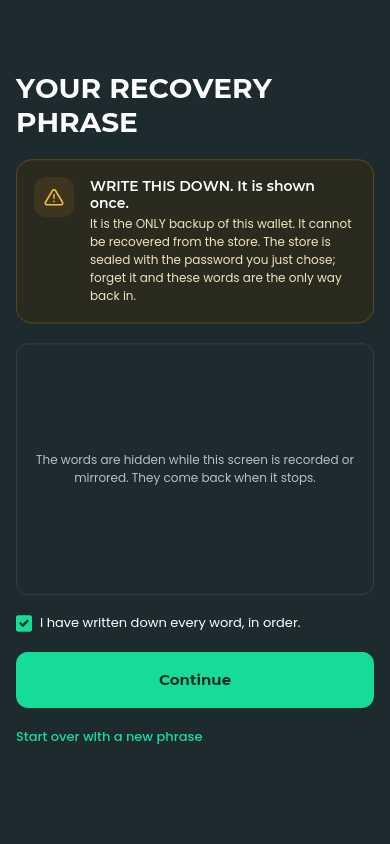
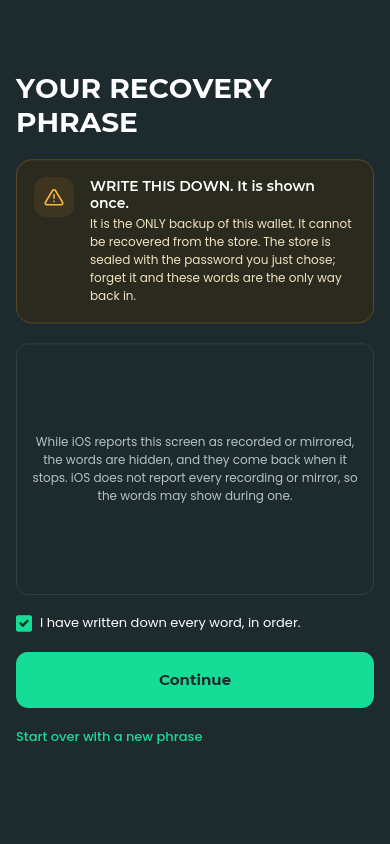
Hedge the hidden-words copy and fix stale line references in docs
The placeholder for the words while the screen is recorded or mirrored
now states its condition and says that iOS does not report every
recording or mirror, so it no longer promises the blanking (D44 item 3).
The doc comment, the S4 row of docs/SCREENS.md and its row of the
application texts say the same. The captured phone image is redrawn in
the pinned container (D32 item 10 (c)).

docs/THREAT_MODEL.md: T16, G27 and the iOS section now cite the lines that
hold the code at Tawara-mobile d8e60f6 (android.rs:38, ios.rs:333 and 338,
369, 403, 384, and the platform script checks at 711-715, 256-257 and
262-263), and PLAN.md:171-172 for the switcher bullet.

docs/DECISIONS.md D44: the warned page scrolls on a phone of 390 by 844 and
on one of 360 by 640. That is recorded as an exception to item 1 and to the
item 8 reference in the header, and the owner's choice among the three
options is still open. No code changes for the layout.

Changed region(s): [[0.0923, 0.4929, 0.9231, 0.6161]]

diff --git a/crates/app/src/screens/first_run.rs b/crates/app/src/screens/first_run.rs
@@ -660,11 +660,12 @@ const PHRASE_SHOT_TITLE: &str = "A screenshot was taken";
 const PHRASE_SHOT_BODY: &str = "Delete it. It holds the words.";
 
 /// What stands where the words are while the screen is recorded or mirrored
-/// (docs/DECISIONS.md D44 item 3). It says why, and promises nothing about the
-/// capture, since the blanking is best effort. The wording is new, and awaits
-/// the owner's approval (D44 item 5).
-const PHRASE_HIDDEN: &str = "The words are hidden while this screen is recorded or mirrored. \
-                             They come back when it stops.";
+/// (docs/DECISIONS.md D44 item 3). It says why, and that iOS does not report
+/// every recording or mirror, since the blanking is best effort. The wording is
+/// new, and awaits the owner's approval (D44 item 5).
+const PHRASE_HIDDEN: &str = "While iOS reports this screen as recorded or mirrored, the words are \
+                             hidden, and they come back when it stops. iOS does not report every \
+                             recording or mirror, so the words may show during one.";
 
 /// The height of the words' grid at its 14-pixel words: eight rows of cells,
 /// with [`PHRASE_GAP`] between the rows. The placeholder that replaces the grid

diff --git a/docs/THREAT_MODEL.md b/docs/THREAT_MODEL.md
@@ -138,7 +138,7 @@ with its source; what checks that protection; what is left; and the status.
 
 | # | threat | protections (sources) | checked by | residual | status |
 |---|---|---|---|---|---|
-| T16 | **The phrase seen or captured while shown** (A5): a person nearby, a screenshot, a recording, screen sharing, the app switcher. | Shown once, at creation, behind a confirmation of three words (PLAN 4.3; docs/SCREENS.md S4, S5); never shown again, and no control exists to show it (D27 item 3). Android: `FLAG_SECURE` on the whole app, set before the first frame (D32 item 4; `Tawara-mobile:crates/mobile/src/android.rs:27-29`). iOS: a cover with no wallet content on `WillResignActive`, over the key window, removed on `DidBecomeActive` (D32 item 6; `Tawara-mobile:crates/mobile/src/ios.rs:239-288`). With no key window no cover is added, and the log says so (`ios.rs:262-265`). | Tawara-mobile CI: `flag_secure` reads `SECURE` from `dumpsys` (`platform/android/tawara.sh:289-294`); `cover added` in the log (`platform/ios/tawara.sh:201-202`) and the key window in a scene (`:207-208`). Passed on 587329c. | The desktop has no protection: screenshots, recording and screen sharing see S4 (G2). No check shows that an Android screenshot, recording or recents thumbnail is blank, or that the iOS switcher's snapshot is (G7, G8). The `scene.window` check (`platform/ios/tawara.sh:208`) catches a missing key window on the simulator only; nothing checks it on a phone. On an iPhone, while the app is active, the app does not stop a screenshot, a screen recording or mirroring of S4 (G27): the cover comes off on `DidBecomeActive` (`Tawara-mobile:crates/mobile/src/ios.rs:208`, `:282-288`), the iced fork's iOS `set_content_protected` is empty (`fork:vendor/winit/src/platform_impl/ios/window.rs:459`), and no code pinned before D44 item 3 reads `UIScreen.isCaptured`. V6 checks the switcher's snapshot only. The control is D44 item 3, merged with PR #26, which is a recommendation: on 2026-10-13 the owner decided only D44's frame order (item 1). Its app side is built (`crates/app/src/host.rs`, `crates/app/src/screens/first_run.rs`): the words are blanked while the shell reports the screen captured, as far as iOS reports it, and a warning shows after a screenshot taken while the words are drawn, which cannot block it. Its images are `design/screenshots/phone-s4-phrase-photographed.png`, with its end, and `design/screenshots/phone-s4-phrase-captured.png`. The iOS calls that report both are the shell's, in Tawara-mobile, and the control is not active on a phone until that pull request lands. D44 item 3 also records developers' reports that the capture state can read inactive while a recording runs, so the blanking is best effort, and V18 is the test. On Android, D44 item 4 records that Android's guidance says `FLAG_SECURE` "does not correctly predict if screen recording is active", and that on Android 11 (API 30) and lower it helps around 70% of devices reliably, so no text may say it stops every recording. | Android and iOS: verified (flag set, cover added); effect on a device, owed. Desktop: owed. iOS while active: owed (G27, V18) |
+| T16 | **The phrase seen or captured while shown** (A5): a person nearby, a screenshot, a recording, screen sharing, the app switcher. | Shown once, at creation, behind a confirmation of three words (PLAN 4.3; docs/SCREENS.md S4, S5); never shown again, and no control exists to show it (D27 item 3). Android: `FLAG_SECURE` on the whole app, set before the first frame (D32 item 4; `Tawara-mobile:crates/mobile/src/android.rs:38`, in `main`). iOS: a cover with no wallet content on `WillResignActive`, over the key window, removed on `DidBecomeActive` (D32 item 6; `Tawara-mobile:crates/mobile/src/ios.rs`: `observe` registers them at `:333` and `:338`; `cover` is at `:369`, `uncover` at `:403`). With no key window no cover is added, and the log says so (`cover`, `ios.rs:384`). | Tawara-mobile CI: `flag_secure` reads `SECURE` from `dumpsys` (`platform/android/tawara.sh:711-715`); `background.covered` reads `cover added` in the log (`platform/ios/tawara.sh:256-257`), and `scene.window` reads the key window in a scene (`:262-263`). Passed on 587329c. | The desktop has no protection: screenshots, recording and screen sharing see S4 (G2). No check shows that an Android screenshot, recording or recents thumbnail is blank, or that the iOS switcher's snapshot is (G7, G8). The `scene.window` check (`platform/ios/tawara.sh:262-263`) catches a missing key window on the simulator only; nothing checks it on a phone. On an iPhone, while the app is active, the app does not stop a screenshot, a screen recording or mirroring of S4 (G27): the cover comes off on `DidBecomeActive` (`Tawara-mobile:crates/mobile/src/ios.rs:338`, `uncover` at `:403-409`), the iced fork's iOS `set_content_protected` is empty (`fork:vendor/winit/src/platform_impl/ios/window.rs:459`), and no code pinned before D44 item 3 reads `UIScreen.isCaptured`. V6 checks the switcher's snapshot only. The control is D44 item 3, merged with PR #26, which is a recommendation: on 2026-10-13 the owner decided only D44's frame order (item 1). Its app side is built (`crates/app/src/host.rs`, `crates/app/src/screens/first_run.rs`): the words are blanked while the shell reports the screen captured, as far as iOS reports it, and a warning shows after a screenshot taken while the words are drawn, which cannot block it. Its images are `design/screenshots/phone-s4-phrase-photographed.png`, with its end, and `design/screenshots/phone-s4-phrase-captured.png`. The iOS calls that report both are the shell's, in Tawara-mobile, and the control is not active on a phone until that pull request lands. D44 item 3 also records developers' reports that the capture state can read inactive while a recording runs, so the blanking is best effort, and V18 is the test. On Android, D44 item 4 records that Android's guidance says `FLAG_SECURE` "does not correctly predict if screen recording is active", and that on Android 11 (API 30) and lower it helps around 70% of devices reliably, so no text may say it stops every recording. | Android and iOS: verified (flag set, cover added); effect on a device, owed. Desktop: owed. iOS while active: owed (G27, V18) |
 | T17 | **The input method learns or suggests a password or phrase** (A4). | iced marks a secure field's input purpose as secure (`fork:widget/src/text_input.rs:435-437`), which reaches winit as `ImePurpose::Password` (`fork:winit/src/conversion.rs:1440`). On Android winit drops it (`fork:vendor/winit/src/platform_impl/android/mod.rs:946`), and on iOS it is ignored with a warning (`fork:vendor/winit/src/platform_impl/ios/window.rs:386-387`). On Wayland it becomes a sensitive-data hint (`fork:vendor/winit/src/platform_impl/linux/wayland/seat/text_input/mod.rs:168`). | Phase 1 found an ordinary keyboard on both phones, which "may suggest and learn" (docs/spikes/P1-REPORT.md, "What did not, and where"). The owner's device check (D32 item 2) has no recorded result. | On both phones the keyboard is an ordinary one for the password and phrase fields. D32 item 2 makes native text-input glue part of phase 4 "if composition or secure entry fails" (`docs/DECISIONS.md:1461-1463`). Whether a keyboard that learns a password field counts as a failure of secure entry is not decided there; V1 reports it, and the owner decides. | owed (G3) |
 | T18 | **Accessibility services read a secret field** (A4). | PLAN 4.2 requires that secret fields are not exposed as a value to accessibility services. No decision, mechanism or test says how. iced at this pin publishes no accessibility tree (no `accesskit` in the fork or in `Cargo.lock`), so a service likely sees no field at all; that is an inference, not a check. | — | Unknown until checked. The same inference means a screen reader cannot use Tawara. | owed (G10) |
 | T19 | **Copy or cut of a secret field.** | iced refuses copy and cut in a `secure(true)` field (`fork:widget/src/text_input.rs:914-944`). The password, confirmation-word and restore-phrase fields are secure (`crates/app/src/screens/first_run.rs:449-470`, `:607-615`, `:706-711`, `:765-773`; `crates/app/src/ui.rs:298-316`). Paste into them is allowed (owner, D32 item 9 (g)). | No test in this repository. | — | source only (G11) |
@@ -265,8 +265,8 @@ with its source; what checks that protection; what is left; and the status.
 - **Screen.** A cover over the key window when the app is about to become
   inactive, so the switcher's snapshot shows nothing while there is a key
   window. With none, no cover is added and the log says so
-  (`Tawara-mobile:crates/mobile/src/ios.rs:262-265`); the `scene.window`
-  check (`platform/ios/tawara.sh:208`) catches that on the simulator only
+  (`Tawara-mobile:crates/mobile/src/ios.rs:384`); the `scene.window`
+  check (`platform/ios/tawara.sh:262-263`) catches that on the simulator only
   (D32 item 6). Once the app is active again nothing hides the screen, and
   the app does not stop a screenshot, a screen recording or mirroring of S4
   (G27).
@@ -322,7 +322,7 @@ done under the owner's delegation, through pull requests the owner reviews.
 | G24 | The wording still open: the placeholders in the table at `docs/SCREENS.md:171-178` ("The application's own texts (D25)"), which D25 leaves to be settled with their screens; and the summaries' sentences under D28 (`crates/app/src/screens/wallet/report.rs`), which no decision approves word for word (D25; D27 item 12). | T35 | Owner | The owner approves the wording on the built screens. |
 | G25 | `deny.toml` does not hold D22's bundled roots. | T26, T37 | Delegated | Ban `rustls-native-certs` and `rustls-platform-verifier` in `deny.toml`, with a reason naming D22. |
 | G26 | The policy test's manifest scans skip `spikes/`, which has a `[patch]` (allowed by D17) and an older library pin. | T38 | Delegated | Extend the scan to every manifest, listing the spike's `iced_winit` patch as the one exception under D17. |
-| G27 | **iOS while the app is active.** The app does not stop a screenshot, a screen recording or mirroring of S4. The cover comes off on `DidBecomeActive` (`Tawara-mobile:crates/mobile/src/ios.rs:208`, `:282-288`); the iced fork's iOS `set_content_protected` is empty (`fork:vendor/winit/src/platform_impl/ios/window.rs:459`); no code pinned before D44 item 3 reads `UIScreen.isCaptured`, which Apple's Technical Q&A QA1970, "Responding to screen capture in iOS 11" (https://developer.apple.com/library/archive/qa/qa1970/_index.html), describes as true while the screen is recorded (QuickTime Player over a cable among the routes), mirrored or sent over AirPlay; and PLAN 4.3 asks for the iOS cover only as far as the switcher's snapshot (`docs/PLAN.md:165-166`). V6 does not see this. | T16 | Owner (device check V18), then delegated | The control is D44 item 3, merged with PR #26 (a recommendation, since on 2026-10-13 the owner decided only D44's frame order, item 1): on iOS the grid is blanked while iOS reports the screen as recorded or mirrored, as far as it reports it, and a warning follows a screenshot, which cannot block it. Its app side is built in this repository; its iOS calls are in Tawara-mobile, and it is not active on a phone until they land. Item 3 also records developers' reports that the capture state can read inactive while a recording runs, so the blanking is best effort, and V18 can fail even once the control is built. The owner decides G27 after V18 has a recorded result (section 6, items 1 and 6); meanwhile 5.4 item 15 puts the risk to the owner. |
+| G27 | **iOS while the app is active.** The app does not stop a screenshot, a screen recording or mirroring of S4. The cover comes off on `DidBecomeActive` (`Tawara-mobile:crates/mobile/src/ios.rs:338`, `uncover` at `:403-409`); the iced fork's iOS `set_content_protected` is empty (`fork:vendor/winit/src/platform_impl/ios/window.rs:459`); no code pinned before D44 item 3 reads `UIScreen.isCaptured`, which Apple's Technical Q&A QA1970, "Responding to screen capture in iOS 11" (https://developer.apple.com/library/archive/qa/qa1970/_index.html), describes as true while the screen is recorded (QuickTime Player over a cable among the routes), mirrored or sent over AirPlay; and PLAN 4.3 asks for the iOS cover only as far as the switcher's snapshot (`docs/PLAN.md:171-172`). V6 does not see this. | T16 | Owner (device check V18), then delegated | The control is D44 item 3, merged with PR #26 (a recommendation, since on 2026-10-13 the owner decided only D44's frame order, item 1): on iOS the grid is blanked while iOS reports the screen as recorded or mirrored, as far as it reports it, and a warning follows a screenshot, which cannot block it. Its app side is built in this repository; its iOS calls are in Tawara-mobile, and it is not active on a phone until they land. Item 3 also records developers' reports that the capture state can read inactive while a recording runs, so the blanking is best effort, and V18 can fail even once the control is built. The owner decides G27 after V18 has a recorded result (section 6, items 1 and 6); meanwhile 5.4 item 15 puts the risk to the owner. |
 
 ### 5.2 Device checks still owed
 

diff --git a/docs/SCREENS.md b/docs/SCREENS.md
@@ -44,7 +44,7 @@ the form on the right, the node footer under it.
 | S1 | **Get started**: create, or restore from a recovery phrase | 01 | a | — | "Import a legacy .mcm file" is not built: the library has no import (D27, item 4). When a store is there to open (the one last opened, wherever it is, or else the default folder's), S7 is shown instead, with a link here; S1 links to S7 too ("Open a wallet already on this computer"). On a phone, S1 is reached only from S0, when the phone's folder holds no store, and it has no link to S7 (D37). |
 | S2 | **Choose a node**: the URL, a test, save | 01 footer, 05 node card | a | `SetNode`, `NetworkStatus`, `ClearNode` | Pre-selected: `https://api.mochimo.org` (D43), which the URL field starts with, until the person chooses another or forgets the node. The text names that node and Cloudflare, and says what the node learns (the tags asked about, and so their balances, and when the wallet is used) and that it can learn the network address, which Cloudflare sees (provisional, for the owner's approval; D43). Nothing asks a node at start-up (D43), and the footer on S1, S3 and S7 says a node not asked yet is "not asked yet" rather than drawing it as one that answered. The plaintext refusal is the library's, with D22's three changes. Remembered in preferences, where a forgotten node is kept as `none` and the default is not written, so that a person who never chose follows the default (D27, item 10; D43). A node chosen or forgotten here that cannot be saved is said on this screen, which stays rather than going back as if it were saved (provisional wording). Where no folder for the preferences was found at start-up nothing can be saved, so the note says the choice holds for this run only and that the next start uses the default. A preferences file that cannot be read gives no node, not the default, and is not written over until the person chooses or forgets a node. While it is held, this screen says so in a note (provisional wording, for the owner's approval: "Your settings could not be read", then "No node is in use, not the default, and your other settings are not saved. Choosing or forgetting a node saves them again, replacing the file that could not be read."), and offers "Forget the node" beside "Back", which chooses none and releases the file. Otherwise "Forget the node" is offered only while a node is set. With no node in use, the text says so instead of saying the wallet uses the default (provisional wording). |
 | S3 | **New wallet: folder and password** | — | a | `CreateBegin` | The default folder (D21) with the sync warning when the chosen one is synced (section 4.5). The password floor is the library's (`MIN_PASSWORD_LEN`). Masked fields (section 4.2). When a phrase waiting on S4 or S5 is discarded by the auto-lock or by the window leaving the screen, S3 comes back in the folder chosen, saying nothing was created and why. |
-| S4 | **New wallet: the recovery phrase**, shown once | — | a | — | The library's warning, whole and unchanged, comes before the 24 words, which are in a numbered grid of three columns and eight rows on every size (docs/DECISIONS.md D44). On the desktop, and on a phone whose page is at least 733 pixels between its insets (a 390 by 844 phone, say; D44 item 2 gives the 733, held as `PHRASE_ONE_FRAME` in `crates/app/src/screens/first_run.rs`), the warning and the words share one frame. A shorter phone (360 by 640 and 360 by 800) draws the warning alone first, with "Show the phrase", and the words after it on a frame of their own; its S4 has no wordmark, and its two frames are drawn as `phone-s4-phrase-warning.png` and `phone-s4-phrase-shown.png` at 390 by 640. The desktop's frame keeps 24 pixels from the top and the bottom. "Show the phrase" is a new label, provisional until the owner approves it. The iOS screenshot warning and the recording blank are built in the application, with the best-effort wording given below: the iOS shell reports a screenshot and the capture state to it (`screenshot_taken`, `capture_changed`, and `Host::captured` at start; D44 item 3). A phone shows either only once Tawara-mobile's pull request that wires those calls is in its pin; until then its S4 is as it was. After a screenshot taken while the words are drawn, the page shows a warning above them: "A screenshot was taken", "Delete it. It holds the words." The warning and the gap under it take 96 pixels above the words. A 360 by 800 phone has that room, and its page still fits; a 360 by 640 phone and a 390 by 844 one do not, so their pages scroll, and "Start over with a new phrase" lies below the bottom inset until they do. The 390 by 844 images are `phone-s4-phrase-photographed.png`, with its end as `phone-s4-phrase-photographed-end.png`, where the page scrolls, and `phone-s4-phrase-captured.png`, which fits; the layout of the warned page awaits the owner (D44). While the screen is recorded or mirrored, a box as tall as the grid stands where the words are, with "The words are hidden while this screen is recorded or mirrored. They come back when it stops." The checkbox and Continue stay. The blanking is best effort: iOS can read the screen as not captured while a recording runs, so no copy promises that the words stay hidden. The wording is provisional, for the owner's approval (D44 item 5). The desktop and Android send no capture signal, so their S4 is as it was. Held sideways, a phone is wider than 600 and draws the desktop's frame, which is not checked at that height, as the rest of the phone layout is not (D32 item 10 (b)). No copy button, no clipboard (section 4.3). Continuing asks the person to confirm they wrote it down. Leaving drops it (`CreateAbandon`). |
+| S4 | **New wallet: the recovery phrase**, shown once | — | a | — | The library's warning, whole and unchanged, comes before the 24 words, which are in a numbered grid of three columns and eight rows on every size (docs/DECISIONS.md D44). On the desktop, and on a phone whose page is at least 733 pixels between its insets (a 390 by 844 phone, say; D44 item 2 gives the 733, held as `PHRASE_ONE_FRAME` in `crates/app/src/screens/first_run.rs`), the warning and the words share one frame. A shorter phone (360 by 640 and 360 by 800) draws the warning alone first, with "Show the phrase", and the words after it on a frame of their own; its S4 has no wordmark, and its two frames are drawn as `phone-s4-phrase-warning.png` and `phone-s4-phrase-shown.png` at 390 by 640. The desktop's frame keeps 24 pixels from the top and the bottom. "Show the phrase" is a new label, provisional until the owner approves it. The iOS screenshot warning and the recording blank are built in the application, with the best-effort wording given below: the iOS shell reports a screenshot and the capture state to it (`screenshot_taken`, `capture_changed`, and `Host::captured` at start; D44 item 3). A phone shows either only once Tawara-mobile's pull request that wires those calls is in its pin; until then its S4 is as it was. After a screenshot taken while the words are drawn, the page shows a warning above them: "A screenshot was taken", "Delete it. It holds the words." The warning and the gap under it take 96 pixels above the words. A 360 by 800 phone has that room, and its page still fits; a 360 by 640 phone and a 390 by 844 one do not, so their pages scroll, and "Start over with a new phrase" lies below the bottom inset until they do. The 390 by 844 images are `phone-s4-phrase-photographed.png`, with its end as `phone-s4-phrase-photographed-end.png`, where the page scrolls, and `phone-s4-phrase-captured.png`, which fits; the layout of the warned page awaits the owner (D44). While the screen is recorded or mirrored, a box as tall as the grid stands where the words are, with "While iOS reports this screen as recorded or mirrored, the words are hidden, and they come back when it stops. iOS does not report every recording or mirror, so the words may show during one." The checkbox and Continue stay. The blanking is best effort: iOS can read the screen as not captured while a recording runs, so no copy promises that the words stay hidden. The wording is provisional, for the owner's approval (D44 item 5). The desktop and Android send no capture signal, so their S4 is as it was. Held sideways, a phone is wider than 600 and draws the desktop's frame, which is not checked at that height, as the rest of the phone layout is not (D32 item 10 (b)). No copy button, no clipboard (section 4.3). Continuing asks the person to confirm they wrote it down. Leaving drops it (`CreateAbandon`). |
 | S5 | **New wallet: confirm three words** | — | a | `CreateConfirm` | The positions are the library's (`CONFIRM_POSITIONS`). A wrong answer keeps the phrase pending; the refusal is shown on the screen. So does a store the library refuses to write (an unsafe folder, say): the folder can be put right and the words given again. If the worker no longer holds the phrase, the one shown is dropped and S3 comes back with the refusal. |
 | S6 | **Restore from a recovery phrase** | 01 (second option) | a | `CreateFromPhrase` | The library's `SCHEME_WARNING` is shown before the phrase field, whole. Masked phrase field. |
 | S7 | **Unlock** | — | a | `Unlock` | The store's folder (default first). The library's refusals: wrong password, store in use (section 4.7), no store, unsafe folder. A store made on S5 or S6 that could not be opened afterwards is the one offered here, with the refusal, and it is remembered. On a phone it is the first screen whenever the phone's folder holds a store, and it has no link to S1 or S3, since a phone with a store offers neither (D37); on the desktop, "Create or restore a different wallet" leads to S1. |
@@ -175,7 +175,7 @@ Placeholders on D25's terms, settled with the owner:
 |---|---|
 | the introductions under each first-run title, the radio cards' descriptions, the field labels and "At least 12 characters." | S1 to S7 |
 | the phrase warning: the library's words from `create`, without its sentence about the terminal; the button "Show the phrase" (a new label, provisional until the owner approves it, D44) | S4 |
-| on iOS, the warning after a screenshot taken while the words are drawn, "A screenshot was taken" and "Delete it. It holds the words."; the words' placeholder while the screen is recorded or mirrored, "The words are hidden while this screen is recorded or mirrored. They come back when it stops." (new wording, provisional until the owner approves it, D44 items 3 and 5) | S4 |
+| on iOS, the warning after a screenshot taken while the words are drawn, "A screenshot was taken" and "Delete it. It holds the words."; the words' placeholder while the screen is recorded or mirrored, "While iOS reports this screen as recorded or mirrored, the words are hidden, and they come back when it stops. iOS does not report every recording or mirror, so the words may show during one." (new wording, provisional until the owner approves it, D44 items 3 and 5) | S4 |
 | what the worker is doing: waiting its turn, deriving the key, reconciling, reading the node's index, "Account N of M", "N of at most M key positions searched" | S8, and W1 while it refreshes |
 | "Nothing was created": a recovery phrase discarded before it was confirmed, and why (the auto-lock, or the window leaving the screen) | S3 |
 | why the store locked: idle ("Locked after N minutes with nothing done..."), the window leaving the screen, a store that could not be read back; that a signed spend's page open at the lock is kept, with its bytes, and shown again when the store is unlocked (a saved spend's, or, when the store could not be read back, any spend's); and that signed bytes not saved were wiped by the lock, with Re-sign on the account's page if the spend has not landed (D38 item 5, as revised on 2026-10-13) | S7 |

diff --git a/docs/DECISIONS.md b/docs/DECISIONS.md
@@ -3602,14 +3602,23 @@ No library change. OS libraries: none added.
 recommended.** Item 8 asks for the whole phrase in one frame, with no
 scrolling. On a 360 × 640 phone that fits only if the library's warning
 moves off the frame or is shortened, and the warning is the library's text
-(PLAN section 3, D25).
+(PLAN section 3, D25). The exception is the page after a screenshot (item
+3), whose warning takes room the frame lacks. That page scrolls on a phone of
+390 × 844 and on one of 360 × 640, and fits on one of 360 × 800. Item 1 names
+the exception, and the owner's choice among the three options is open (As
+built).
 
 1. **Warning first, then the phrase (owner, 2026-10-13).** On short
    phones the library's warning comes first, on a frame of its own, whole
    and unchanged. Then all 24 words appear in a grid of three columns and
    eight rows on one frame, with the checkbox and Continue. Larger phones
    and the desktop show everything on one frame. The phrase itself is never
-   split across frames.
+   split across frames. *Exception, open for the owner (2026-10-16):* after
+   a screenshot, item 3's warning sits above the words, and then the page
+   scrolls on a phone of 390 × 844 and on one of 360 × 640, so the warned
+   page is not one frame there. The owner has not chosen how to meet that:
+   keep the scroll, hide the words again after a screenshot until "Show the
+   phrase" is pressed, or show a one-line notice (As built).
 2. **The grid (recommended).** Three columns by eight rows on every size,
    read down the columns as the desktop's already is, at 14-pixel words.
    A phone counts as short below about 720 usable pixels. The tests measure
@@ -3654,10 +3663,14 @@ the desktop, which keep S4 as it was), and the crate exports
 `screenshot_taken()` and `capture_changed(captured: bool)`. The shell's
 observers that call them are in Tawara-mobile; until that pull request is in
 a pin, no phone warns or blanks. The wording of item 5 awaits the owner's
-approval. The warned page scrolls on a phone at 390 by 844 and at 360 by 640,
-and fits at 360 by 800. The owner decides whether it keeps the scroll, hides
-the words again after a screenshot until "Show the phrase" is pressed, or
-shows a one-line notice; only the scroll is built. The phone images are
+approval. On review (2026-10-16), the placeholder's copy was reworded to say
+that iOS does not report every recording or mirror. The warned page scrolls
+on a phone at 390 by 844 and at 360 by 640, and fits at 360 by 800. The owner
+decides whether it keeps the scroll, hides the words again after a screenshot
+until "Show the phrase" is pressed, or shows a one-line notice; only the scroll
+is built, and the owner's choice is recorded here before this pull request
+merges. A window 600 pixels or wider draws the desktop's frame, and the warned
+page is not measured at that width. The phone images are
 `phone-s4-phrase-photographed.png` with its end, and
 `phone-s4-phrase-captured.png`.
 
